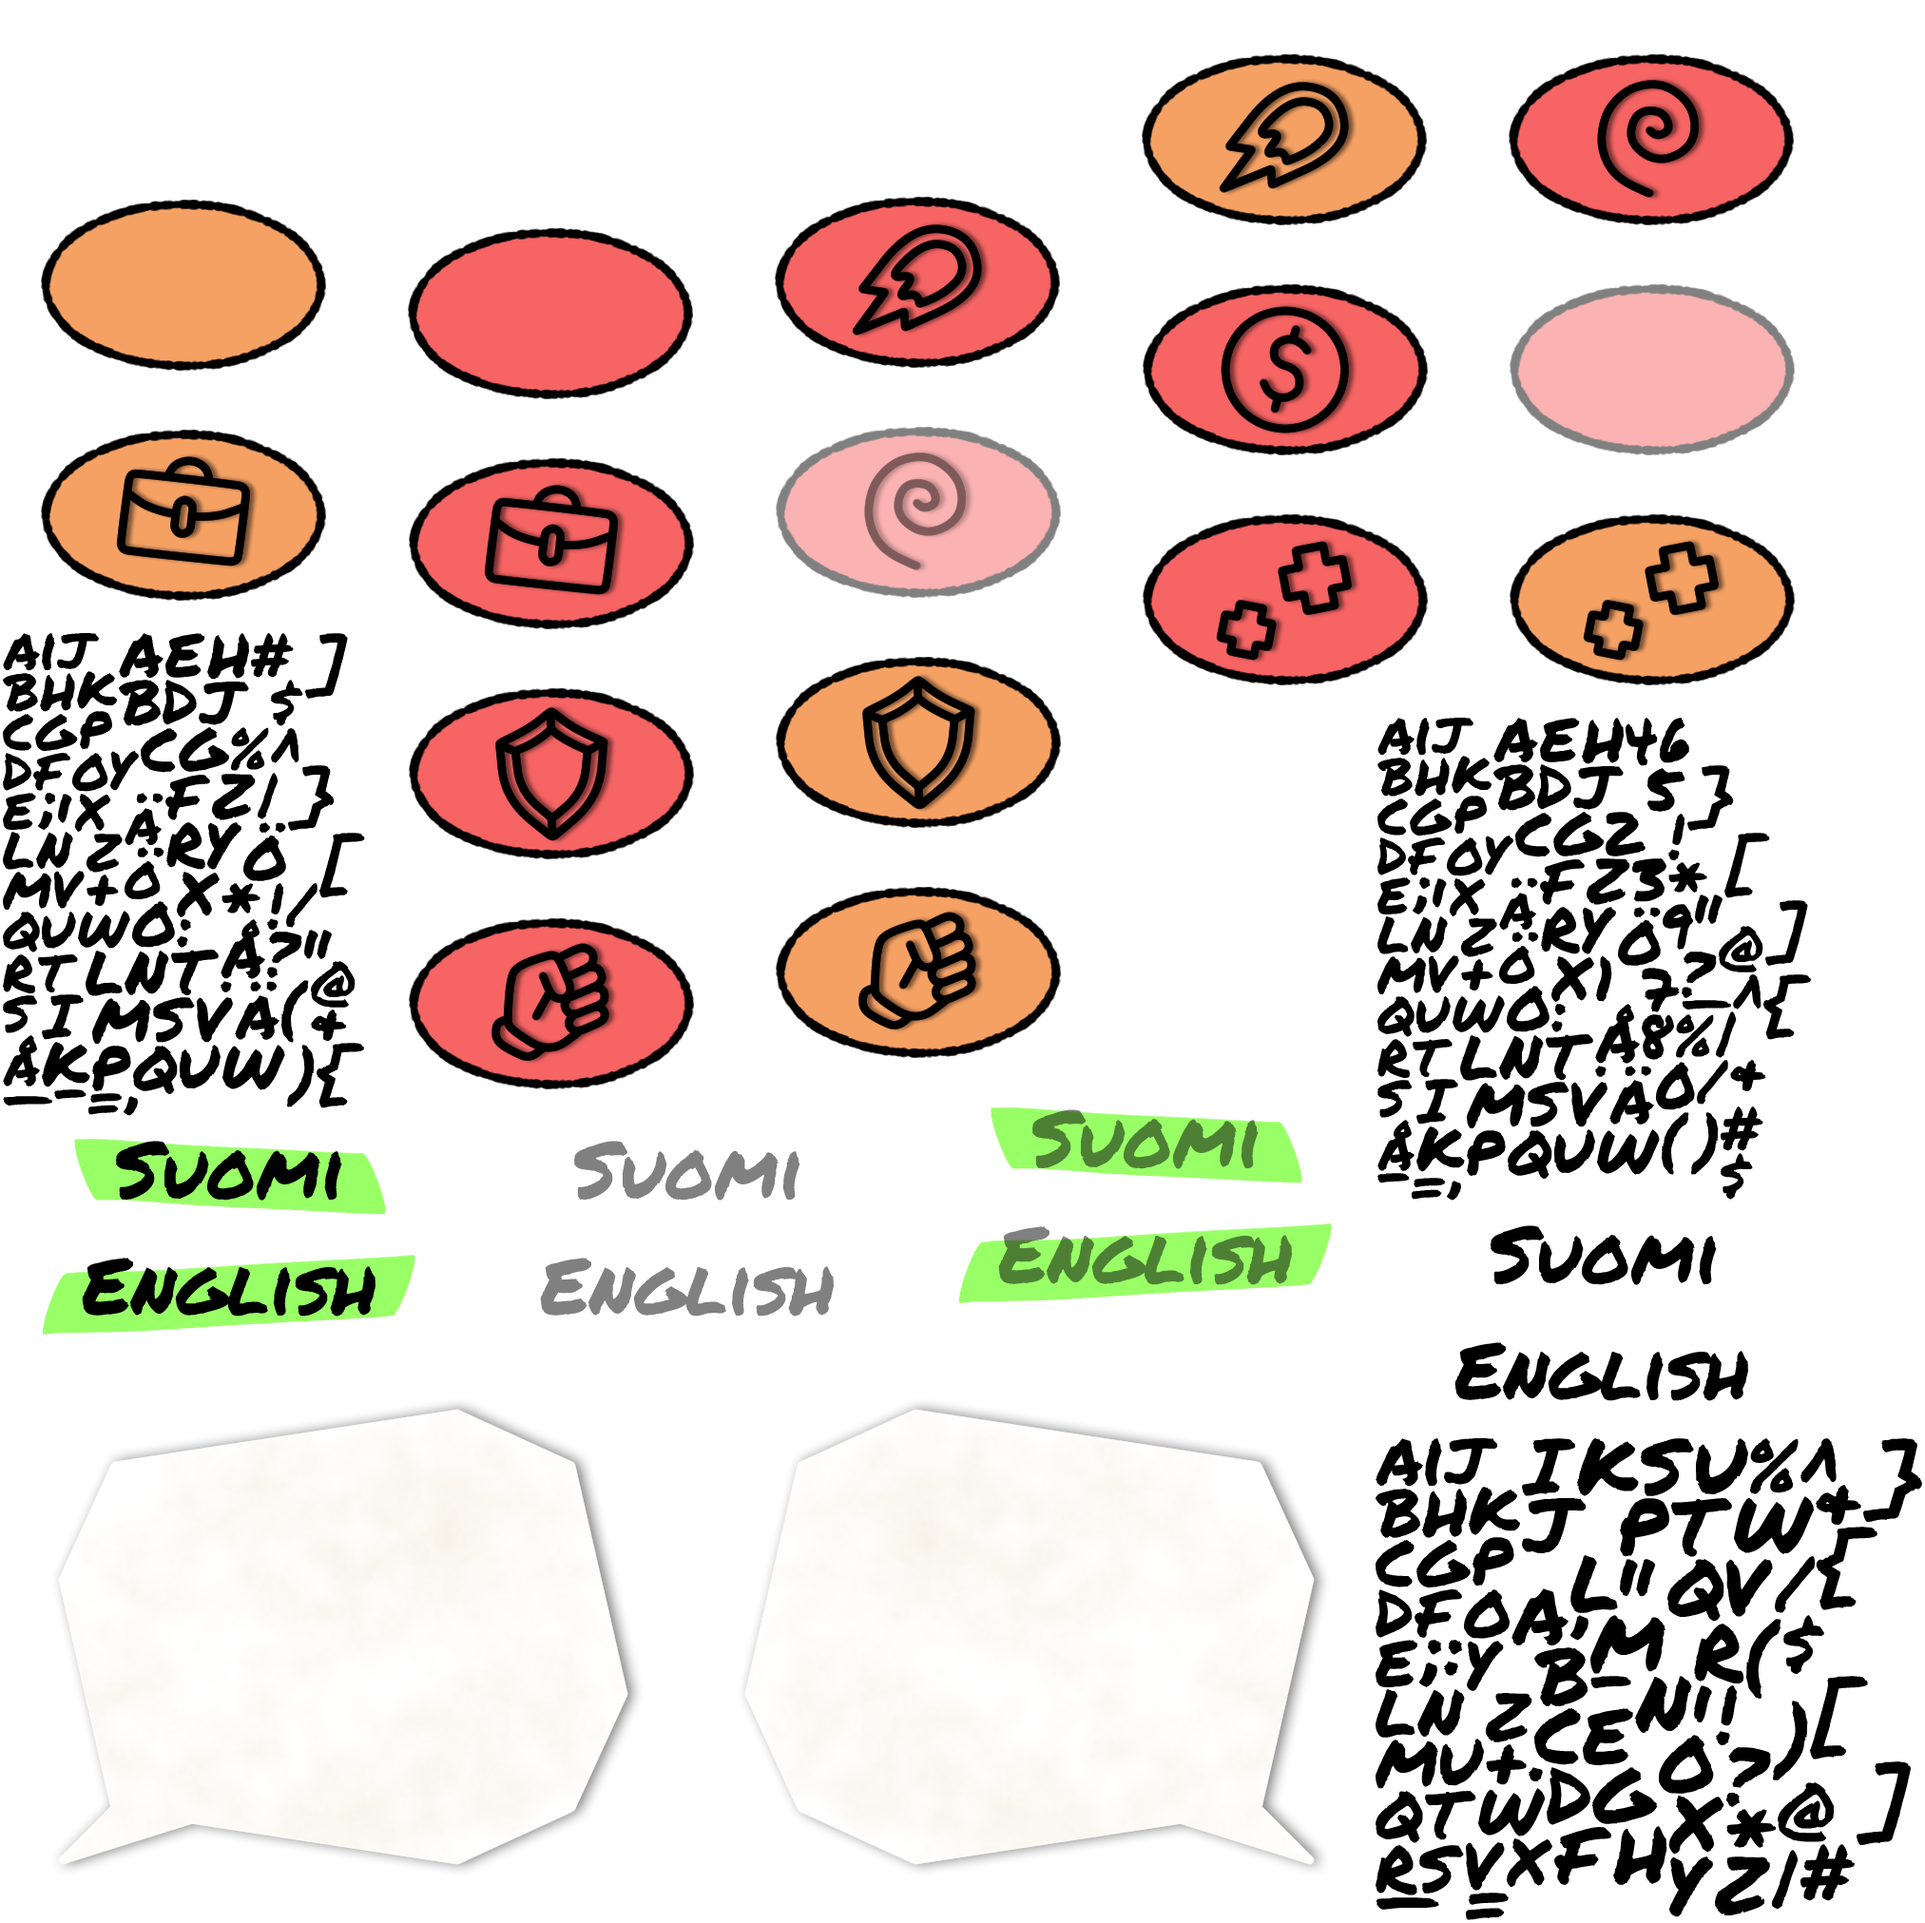
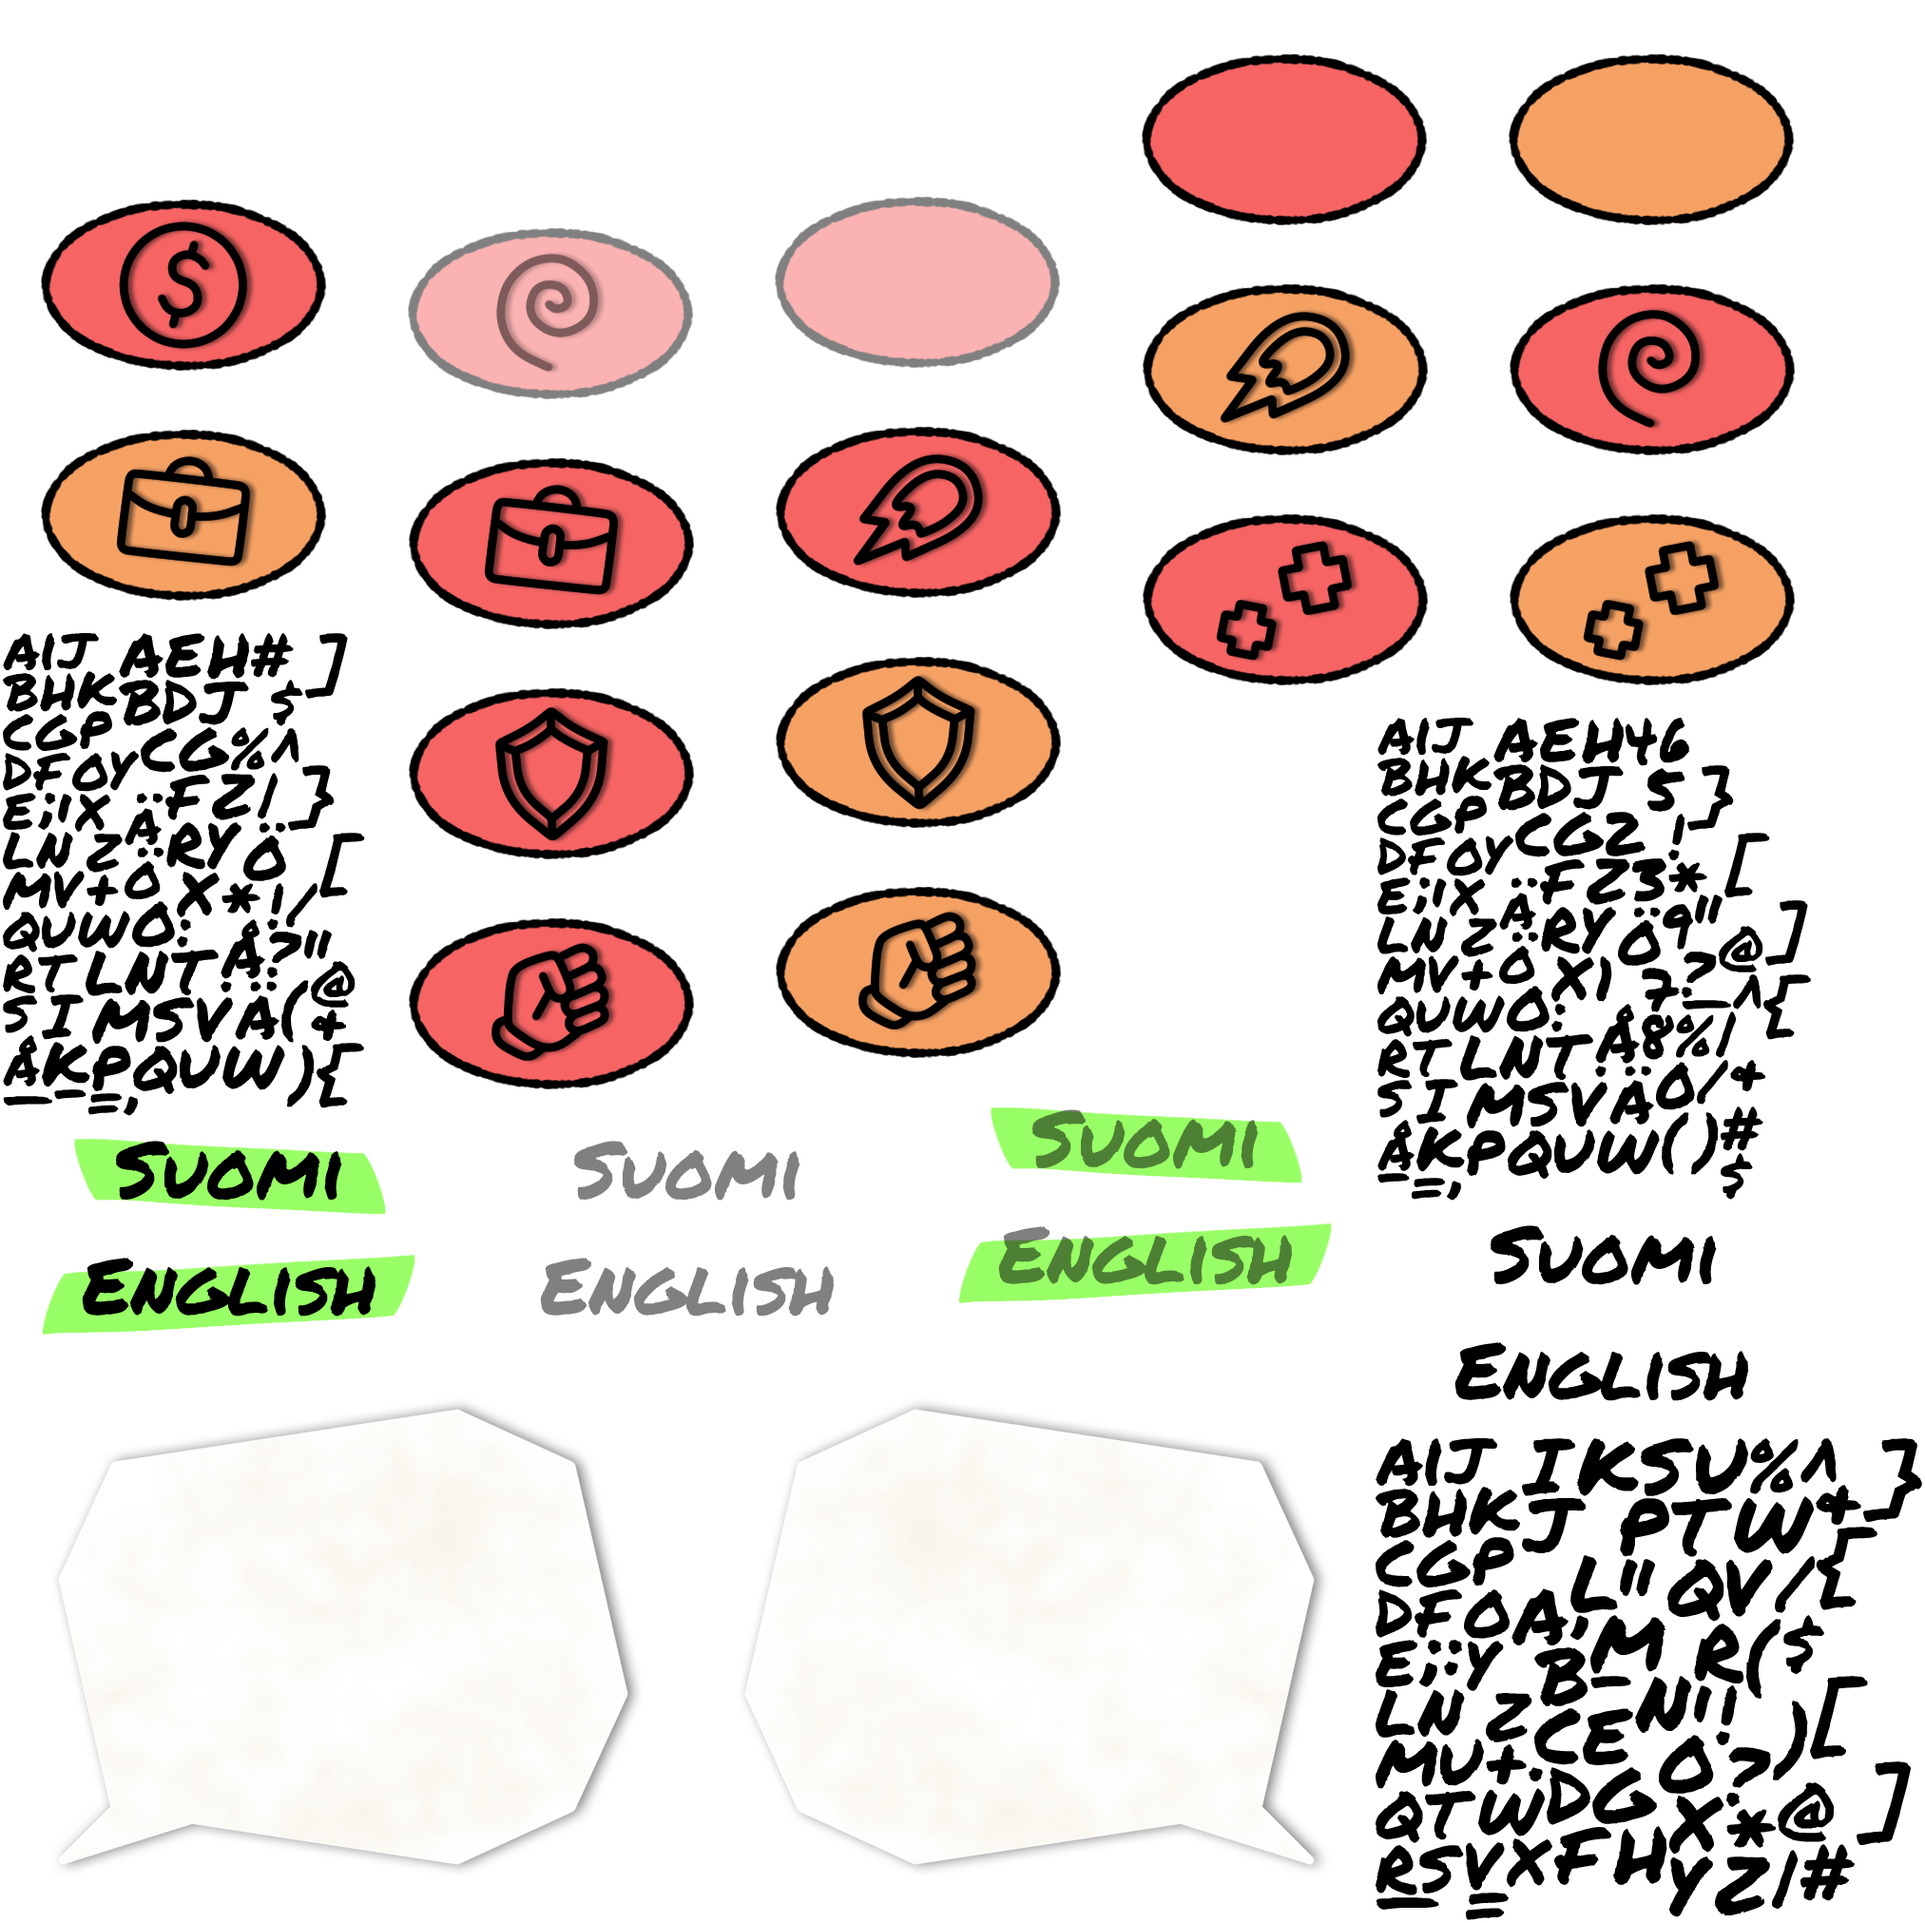
More achievement testing.

diff --git a/core/src/fi/phstudios/robotmayhem/Achievements.java b/core/src/fi/phstudios/robotmayhem/Achievements.java
@@ -22,6 +22,12 @@ public class Achievements {
     private Dialog dialogAch;
     private ImageButton btnSteps;
 
+    private String[] achHeaders;
+    private String[] achDescriptions;
+    private String[] achLocked;
+
+    private float space = 200f;
+
     Achievements(MainGame game) {
         this.game = game;
         stage = game.getStage();
@@ -29,7 +35,9 @@ public class Achievements {
         stepAllCount = game.getStepAllCount();
 
         createAchDialog();
-        createStepAch();
+        createHeadersAndDescriptions();
+        checkAchievements();
+        createButtons();
         createExitButton();
         stage.addActor(dialogAch);
     }
@@ -41,24 +49,52 @@ public class Achievements {
         dialogAch.setSize(game.pixelWidth, game.pixelHeight);
     }
 
-    private void createStepAch() {
-        if (stepAllCount < 10) {
-            btnSteps = new ImageButton(finalSkin, "ach_steps_locked");
-        } else {
-            btnSteps = new ImageButton(finalSkin, "ach_steps");
-        }
-        btnSteps.addListener(new ClickListener(){
-            @Override
-            public void clicked(InputEvent event, float x, float y){
-                popupStepAch();
-            }
-        });
-        btnSteps.setPosition(300, 300);
-        dialogAch.addActor(btnSteps);
+    private void createHeadersAndDescriptions() {
+        achHeaders = new String[] {
+                "Achievement 1",
+                "Achievement 2",
+                "Achievement 3"};
+
+        achDescriptions = new String[] {
+                "Achievement 1 description (10 steps)",
+                "Achievement 2 description (15 steps)",
+                "Achievement 3 description (20 steps)"};
+
+        achLocked = new String[] {
+                "locked",
+                "locked",
+                "locked"};
     }
 
-    private void popupStepAch() {
-        Label label = new Label("Took 10 steps.", finalSkin, "font46");
+    private void checkAchievements() {
+        // Achievement 1
+        if (stepAllCount >= 10) achLocked[0] = "unlocked";
+
+        // Achievement 2
+        if (stepAllCount >= 15) achLocked[1] = "unlocked";
+
+        // Achievement 3
+        if (stepAllCount >= 20) achLocked[2] = "unlocked";
+    }
+
+    private void createButtons() {
+        for (int i = 0; i < achHeaders.length; i++) {
+            final int btnCounter = i;
+            ImageButton imgBtn = new ImageButton(finalSkin, achLocked[i]);
+            imgBtn.setPosition(400 + i*space, 400);
+            dialogAch.addActor(imgBtn);
+            imgBtn.addListener(new ClickListener(){
+                int i = btnCounter;
+                @Override
+                public void clicked(InputEvent event, float x, float y){
+                    popupStepAch(i);
+                }
+            });
+        }
+    }
+
+    private void popupStepAch(int index) {
+        Label label = new Label(achDescriptions[index], finalSkin, "font46");
         label.setWrap(true);
         label.setAlignment(1);
 
@@ -66,6 +102,23 @@ public class Achievements {
         dialog.getContentTable().add(label).prefWidth(720);
         dialog.setPosition(0,0);
         dialog.setSize(game.pixelWidth, game.pixelHeight);
+
+        Label header = new Label(achHeaders[index], finalSkin);
+        header.setPosition(game.pixelWidth / 4, game.pixelHeight / 2 + 195);
+        header.setSize(960, 100);
+        header.setAlignment(1);
+        dialog.addActor(header);
+
+        String stringLocked = "Locked";
+        if (achLocked[index].equals("unlocked")) stringLocked = "Unlocked";
+
+        Label locked = new Label(stringLocked, finalSkin);
+        locked.setPosition(game.pixelWidth / 4, 350);
+        locked.setSize(960, 100);
+        locked.setAlignment(1);
+        locked.debug();
+        dialog.addActor(locked);
+
         stage.addActor(dialog);
 
         dialog.addListener(new ClickListener(){
